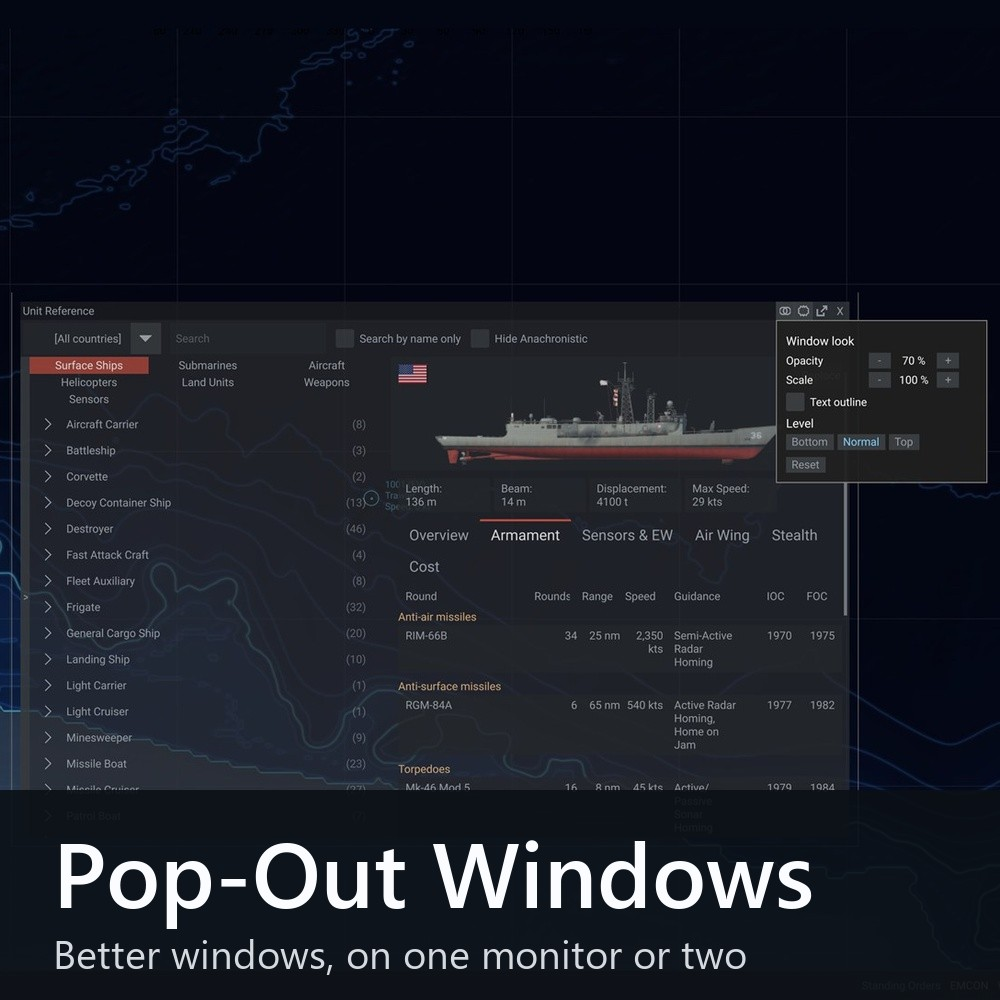
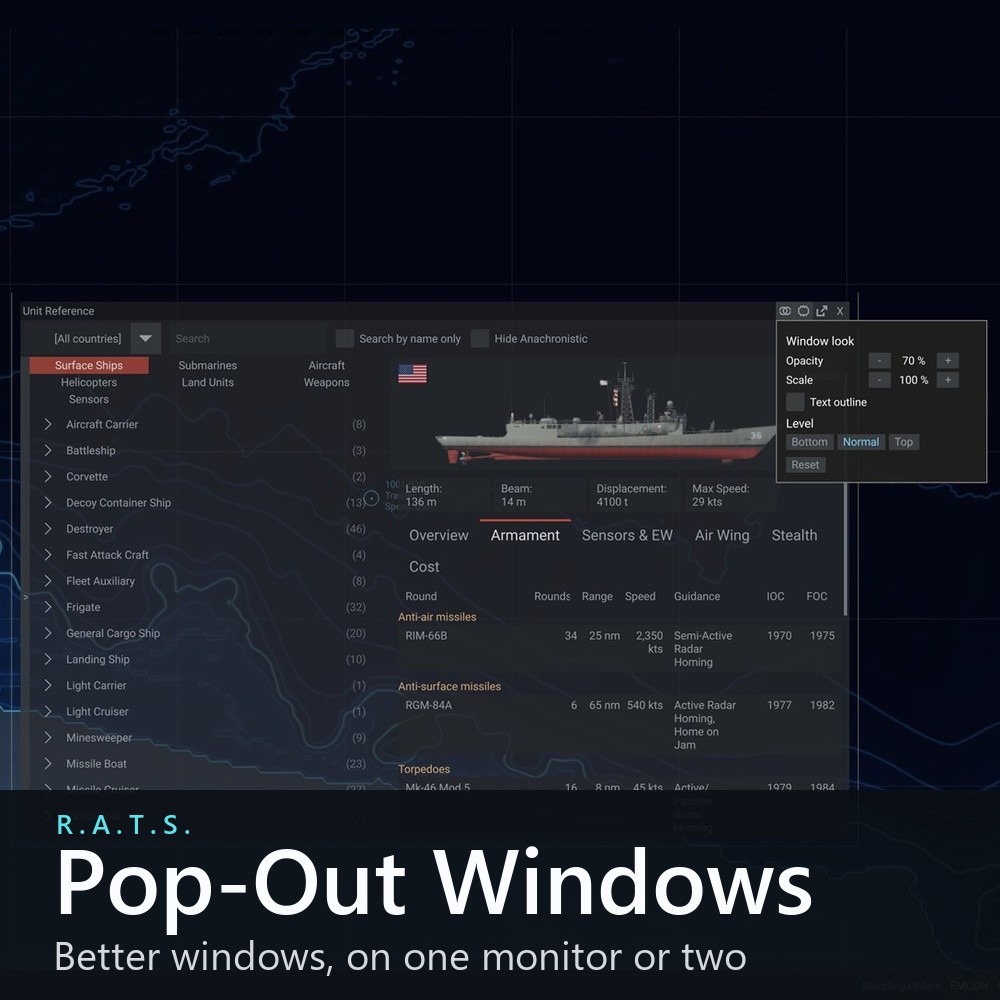
R.A.T.S. branding: README heading, Workshop description (title, tagline, signature) and main picture with the brand mark

diff --git a/tools/make-preview.py b/tools/make-preview.py
@@ -1,4 +1,6 @@
-"""Workshop main picture of the mod: the same look as the other Sea Power mods' pictures (Radio, Topographic Map, Pop-Out) - 1000 x 1000,
+"""Superseded: the R.A.T.S. look (with the brand mark) is made by the workspace's tools/brand-preview.py.
+
+Workshop main picture of the mod: the same look as the other Sea Power mods' pictures (Radio, Topographic Map, Pop-Out) - 1000 x 1000,
 a dark, slightly see-through band over the bottom fifth with the title in Segoe UI Semibold and a lighter subtitle below it.
 Source picture: workshop/preview-source.jpg (a square game shot without band). Writes workshop/preview.jpg (Steam takes under 1 MB).
 

diff --git a/README.md b/README.md
@@ -1,4 +1,4 @@
-# Sea Power Pop-Out Windows
+# Sea Power: R.A.T.S. Pop-Out Windows
 
 A mod for [Sea Power: Naval Combat in the Missile Age](https://store.steampowered.com/app/1286220/) that puts the
 game's windows on another monitor, so the main screen stays free for the world view and the map.
@@ -40,7 +40,7 @@ the game's view when there is none).
    community mod loader, following its
    [installation guide](https://seapower-modders.github.io/AnchorChain/install-anchor-chain.html) (one manual step:
    copy its preloader into the game folder).
-2. Subscribe to **[Sea Power: Rats Pop-Out Windows](https://steamcommunity.com/sharedfiles/filedetails/?id=3826396311)** on the Steam Workshop.
+2. Subscribe to **[Sea Power: R.A.T.S. Pop-Out Windows](https://steamcommunity.com/sharedfiles/filedetails/?id=3826396311)** on the Steam Workshop.
 3. Connect the second monitor **before** starting the game. In a mission, click the new button left of the **X**
    in a window's title bar (a box with an arrow).
 
